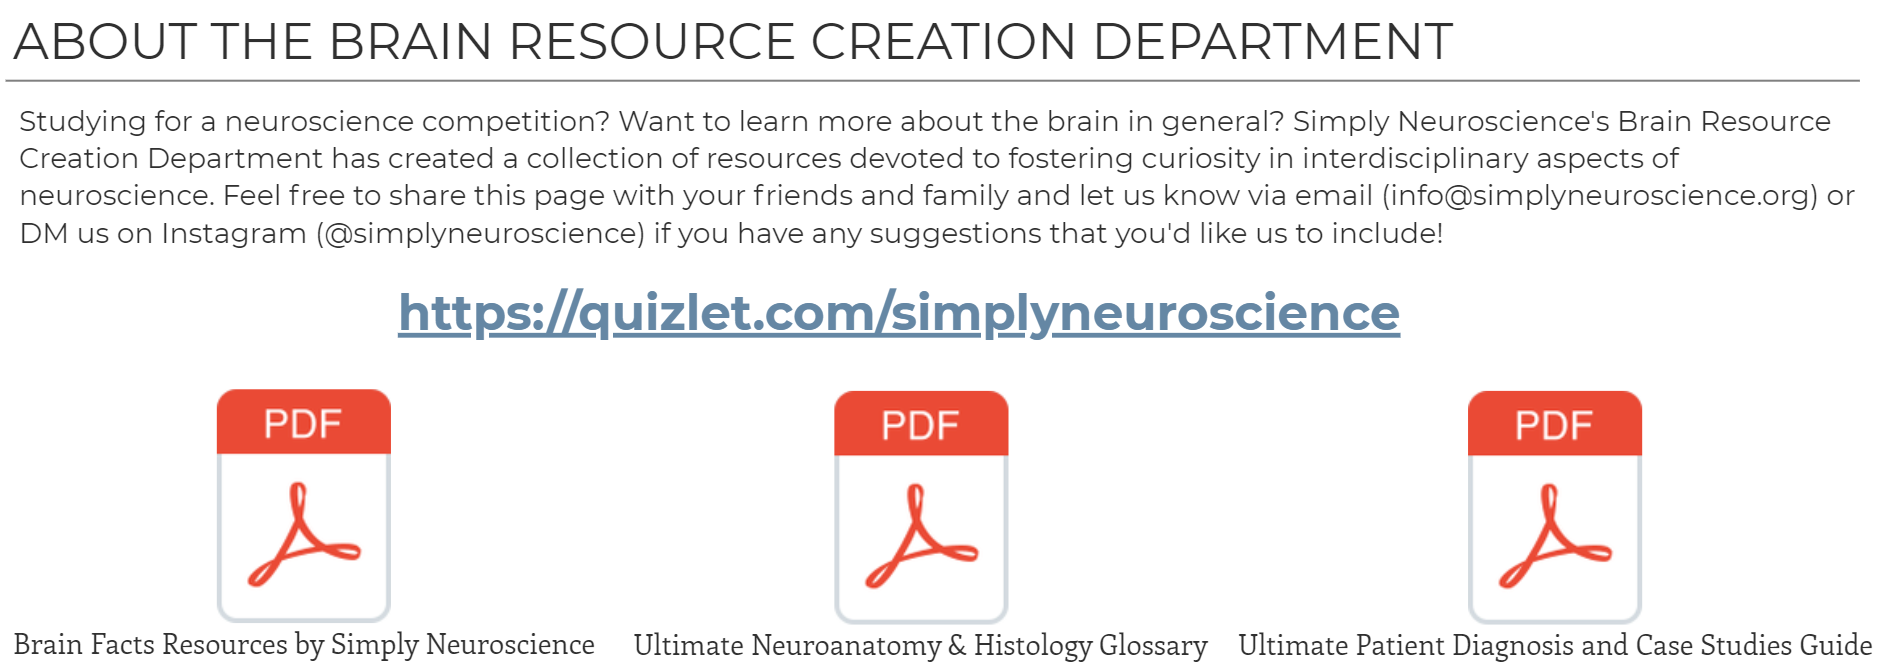
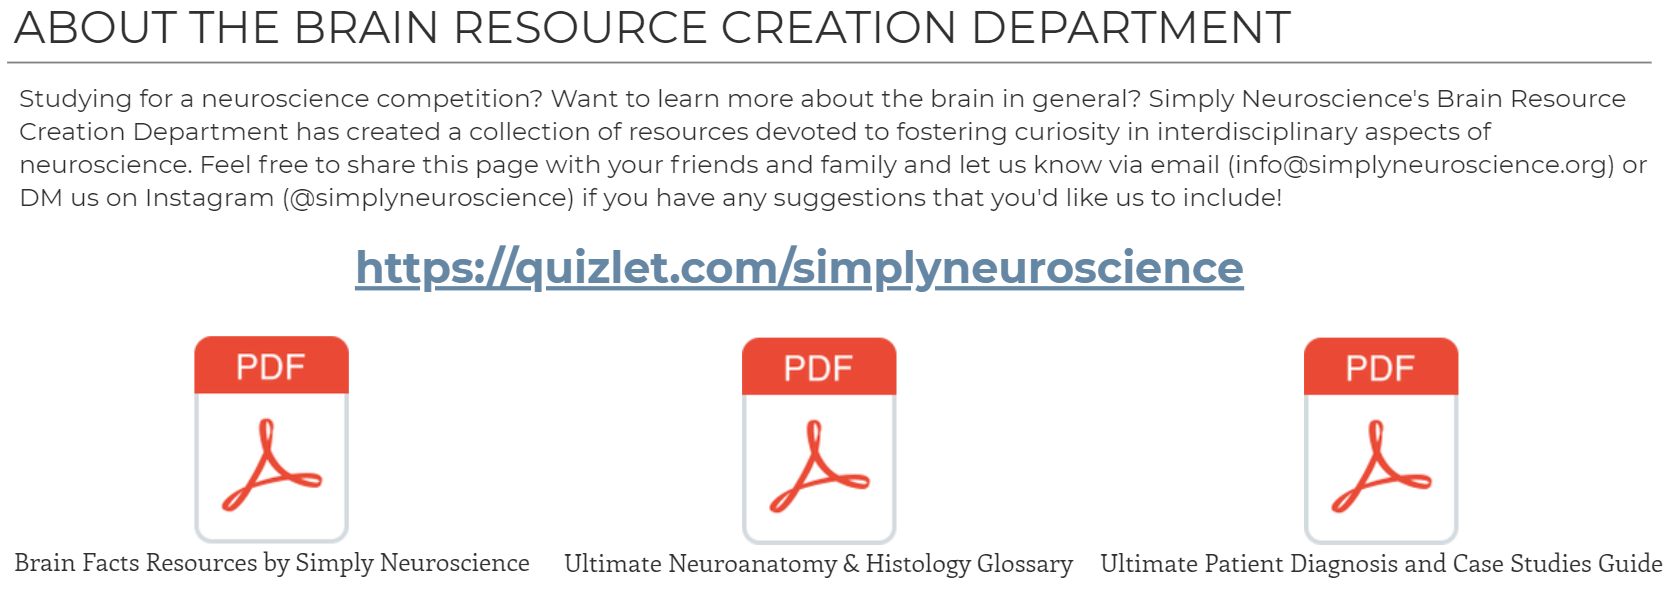
make images fit containers

diff --git a/app/screens/Resources/WWR.js b/app/screens/Resources/WWR.js
@@ -1,34 +1,47 @@
 import React from "react";
 import { Text } from "native-base";
-import { StyleSheet, Image, View, Dimensions, TouchableOpacity, Linking, ScrollView } from "react-native";
+import {
+  StyleSheet,
+  Image,
+  View,
+  Dimensions,
+  TouchableOpacity,
+  Linking,
+  ScrollView,
+} from "react-native";
 import colors from "../../config/colors";
 
-function WWR(){
+function WWR() {
   return (
     <View style={{ height: "100%", backgroundColor: colors.darkBlue }}>
       <ScrollView style={styles.scrollView}>
         <Text style={styles.titleText}>wellness week resources</Text>
         <TouchableOpacity
-          onPress={() => Linking.openURL("https://www.simplyneuroscience.org/wellness-week-resources")}
+          onPress={() =>
+            Linking.openURL(
+              "https://www.simplyneuroscience.org/wellness-week-resources"
+            )
+          }
         >
           <Image
             source={require("../../assets/aboutWWR.png")}
             style={styles.schedule}
-						resizeMode="contain"
-          />          
+            resizeMode="stretch"
+          />
         </TouchableOpacity>
 
-        <Text style={styles.subtitle}>Guide to Starting Your Own Wellness Week Intiative</Text>
+        <Text style={styles.subtitle}>
+          Guide to Starting Your Own Wellness Week Intiative
+        </Text>
         <Image
           source={require("../../assets/howtostart.png")}
           style={styles.schedule2}
-					resizeMode="contain"
-        />        
+          resizeMode="stretch"
+        />
       </ScrollView>
-
     </View>
-  )
-};
+  );
+}
 
 let wHeight = Dimensions.get("window").height;
 let wWidth = Dimensions.get("window").width;
@@ -41,13 +54,13 @@ const styles = StyleSheet.create({
   schedule: {
     height: wHeight * 0.24,
     width: wWidth * 0.9,
-    marginBottom: "2%", 
+    marginBottom: "2%",
     marginTop: "4%",
     alignSelf: "center",
   },
   schedule2: {
     height: wHeight * 0.52,
-    width: wWidth * 0.85,
+    width: wWidth * 0.9,
     marginBottom: "3%",
     alignSelf: "center",
   },
@@ -55,15 +68,15 @@ const styles = StyleSheet.create({
     height: wHeight * 0.3,
     width: wWidth * 0.9,
     alignSelf: "center",
-    marginBottom: "10%"
+    marginBottom: "10%",
   },
   titleText: {
     color: "white",
     fontWeight: "bold",
     fontSize: 28,
     textAlign: "center",
-    marginTop: "4%"
-  }, 
+    marginTop: "4%",
+  },
   scrollView: {
     marginHorizontal: 20,
   },
@@ -72,8 +85,8 @@ const styles = StyleSheet.create({
     fontWeight: "bold",
     fontSize: 15,
     textAlign: "center",
-    marginBottom: "3%"
-  }
+    marginBottom: "3%",
+  },
 });
 
 export default WWR;

diff --git a/app/screens/Resources/BSR.js b/app/screens/Resources/BSR.js
@@ -1,37 +1,49 @@
 import React from "react";
 import { Text } from "native-base";
-import { StyleSheet, Image, View, Dimensions, TouchableOpacity, Linking, ScrollView } from "react-native";
+import {
+  StyleSheet,
+  Image,
+  View,
+  Dimensions,
+  TouchableOpacity,
+  Linking,
+  ScrollView,
+} from "react-native";
 import colors from "../../config/colors";
 
-function BSR(){
+function BSR() {
   return (
     <View style={{ height: "100%", backgroundColor: colors.darkBlue }}>
       <ScrollView style={styles.scrollView}>
         <Text style={styles.titleText}>brain study resources</Text>
         <TouchableOpacity
-          onPress={() => Linking.openURL("https://www.simplyneuroscience.org/brain-bee-study-resources")}
+          onPress={() =>
+            Linking.openURL(
+              "https://www.simplyneuroscience.org/brain-bee-study-resources"
+            )
+          }
         >
           <Image
-            source={require("../../assets/psp.png")}
+            source={require("../../assets/aboutBRC.png")}
             style={styles.schedule}
-						resizeMode="contain"
+            resizeMode="stretch"
           />
         </TouchableOpacity>
 
         <Image
           source={require("../../assets/ultimateguide.png")}
           style={styles.schedule2}
-					resizeMode="contain"
+          resizeMode="stretch"
         />
         <Image
           source={require("../../assets/quiz.png")}
           style={styles.schedule3}
-					resizeMode="contain"
+          resizeMode="stretch"
         />
       </ScrollView>
     </View>
-  )
-};
+  );
+}
 
 let wHeight = Dimensions.get("window").height;
 let wWidth = Dimensions.get("window").width;
@@ -44,7 +56,7 @@ const styles = StyleSheet.create({
   schedule: {
     height: wHeight * 0.18,
     width: wWidth * 0.9,
-    marginBottom: "4%", 
+    marginBottom: "4%",
     marginTop: "4%",
     alignSelf: "center",
   },
@@ -58,18 +70,18 @@ const styles = StyleSheet.create({
     height: wHeight * 0.3,
     width: wWidth * 0.9,
     alignSelf: "center",
-    marginBottom: "10%"
+    marginBottom: "10%",
   },
   titleText: {
     color: "white",
     fontWeight: "bold",
     fontSize: 28,
     textAlign: "center",
-    marginTop: "4%"
-  }, 
+    marginTop: "4%",
+  },
   scrollView: {
     marginHorizontal: 20,
-  }
+  },
 });
 
 export default BSR;

diff --git a/app/screens/Resources/LPW.js b/app/screens/Resources/LPW.js
@@ -1,38 +1,49 @@
 import React from "react";
 import { Text } from "native-base";
-import { StyleSheet, Image, View, Dimensions, TouchableOpacity, Linking, ScrollView } from "react-native";
+import {
+  StyleSheet,
+  Image,
+  View,
+  Dimensions,
+  TouchableOpacity,
+  Linking,
+  ScrollView,
+} from "react-native";
 import colors from "../../config/colors";
 
-function LPW(){
+function LPW() {
   return (
     <View style={{ height: "100%", backgroundColor: colors.darkBlue }}>
       <ScrollView>
         <Text style={styles.titleText}>lesson plans/workshops</Text>
         <TouchableOpacity
-          onPress={() => Linking.openURL("https://www.simplyneuroscience.org/ggsxsn-lesson-plans")}
+          onPress={() =>
+            Linking.openURL(
+              "https://www.simplyneuroscience.org/ggsxsn-lesson-plans"
+            )
+          }
         >
           <Image
             source={require("../../assets/quizlet.png")}
             style={styles.schedule}
-						resizeMode="contain"
-          />          
+            resizeMode="stretch"
+          />
         </TouchableOpacity>
 
         <Image
           source={require("../../assets/brainbuilding.png")}
           style={styles.schedule2}
-					resizeMode="contain"
+          resizeMode="stretch"
         />
         <Image
           source={require("../../assets/brainbuildinginfo.png")}
           style={styles.schedule3}
-					resizeMode="contain"
+          resizeMode="stretch"
         />
       </ScrollView>
-
     </View>
-  )
-};
+  );
+}
 
 let wHeight = Dimensions.get("window").height;
 let wWidth = Dimensions.get("window").width;
@@ -45,7 +56,7 @@ const styles = StyleSheet.create({
   schedule: {
     height: wHeight * 0.21,
     width: wWidth * 0.9,
-    marginBottom: "4%", 
+    marginBottom: "4%",
     marginTop: "4%",
     alignSelf: "center",
   },
@@ -59,19 +70,18 @@ const styles = StyleSheet.create({
     height: wHeight * 0.3,
     width: wWidth * 0.9,
     alignSelf: "center",
-    marginBottom: "10%"
+    marginBottom: "10%",
   },
   titleText: {
     color: "white",
     fontWeight: "bold",
     fontSize: 28,
     textAlign: "center",
-    marginTop: "4%"
-  }, 
+    marginTop: "4%",
+  },
   scrollView: {
     marginHorizontal: 20,
-  }
+  },
 });
-
 
 export default LPW;
